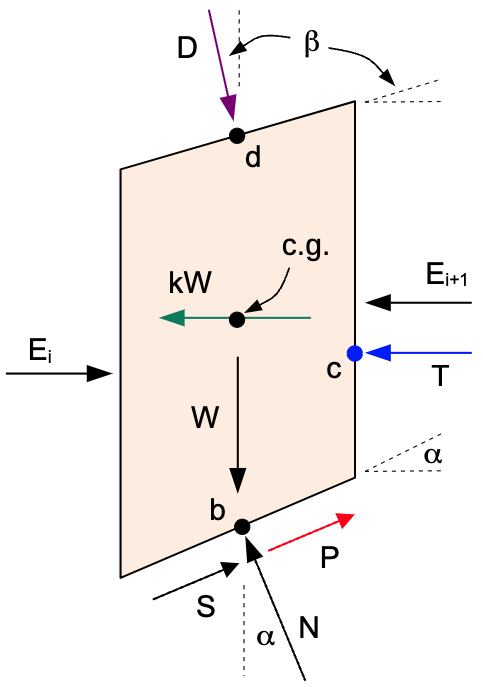
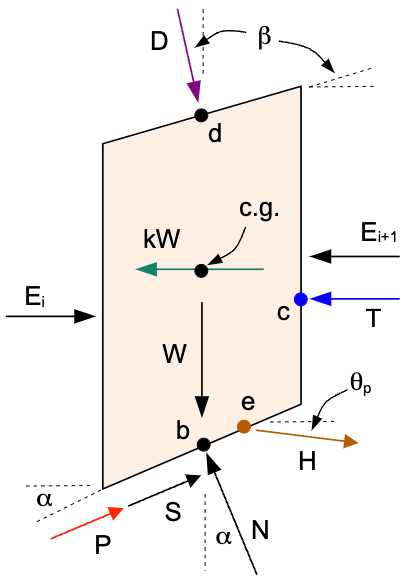
update Janbu docs with pile terms and new OMS/Bishop diagrams
Janbu: H*sin(alpha-theta_p) in N', H*cos(alpha-theta_p) in denominator.
Updated OMS and Bishop diagrams to include pile force H at point e.

diff --git a/docs/lem/janbu.md b/docs/lem/janbu.md
@@ -6,7 +6,7 @@ The forces on the slice considered by the Janbu method are as follows:
 
 >>![oms_slice.png](images/oms_slice.png){width=200px}
 
-For the Janbu method, the side forces are assumed to cancel each other and are therefore iginored. The method does not satisfy moment equilibrium and only partially satisfies force equilibrium. It can be used on both circular and non-circular failure surfaces. 
+For the Janbu method, the side forces are assumed to cancel each other and are therefore ignored. The method does not satisfy moment equilibrium and only partially satisfies force equilibrium. It can be used on both circular and non-circular failure surfaces. 
 
 From the basic theory of limit equilibrium, the factor of safety $F$ is defined as the ratio of the resisting forces to the driving forces acting on the sliding mass, or:
 
